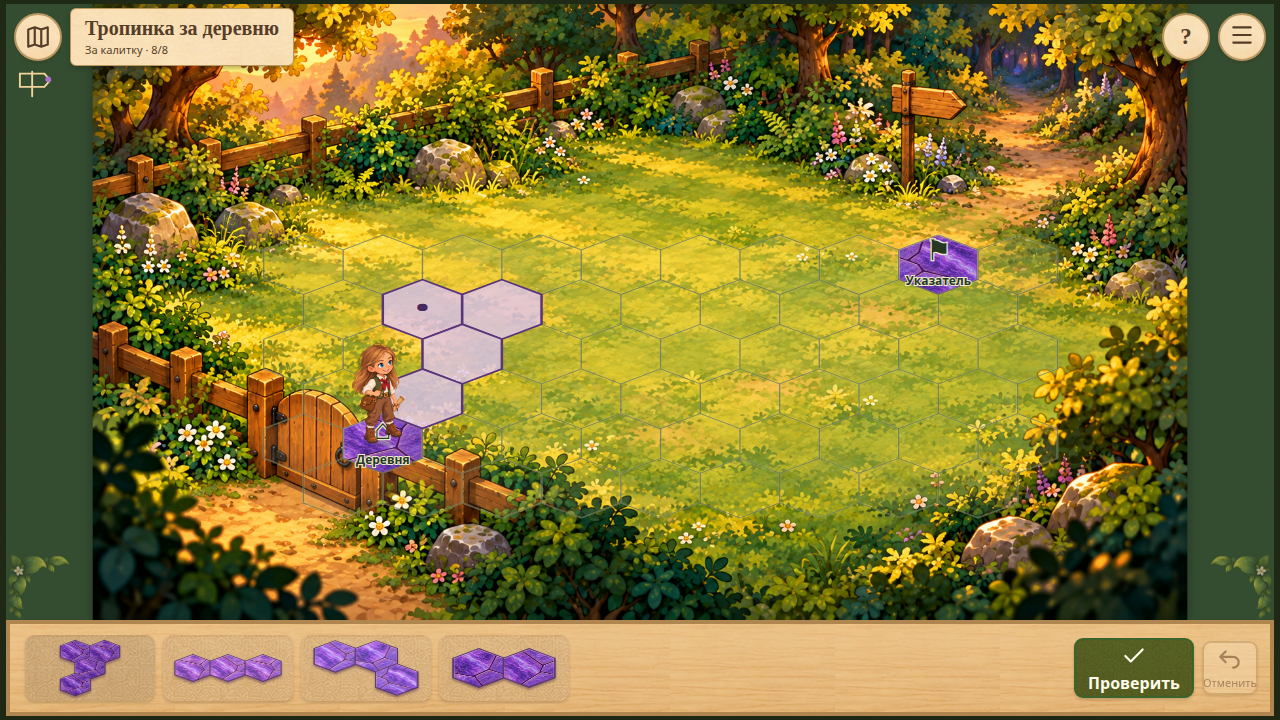
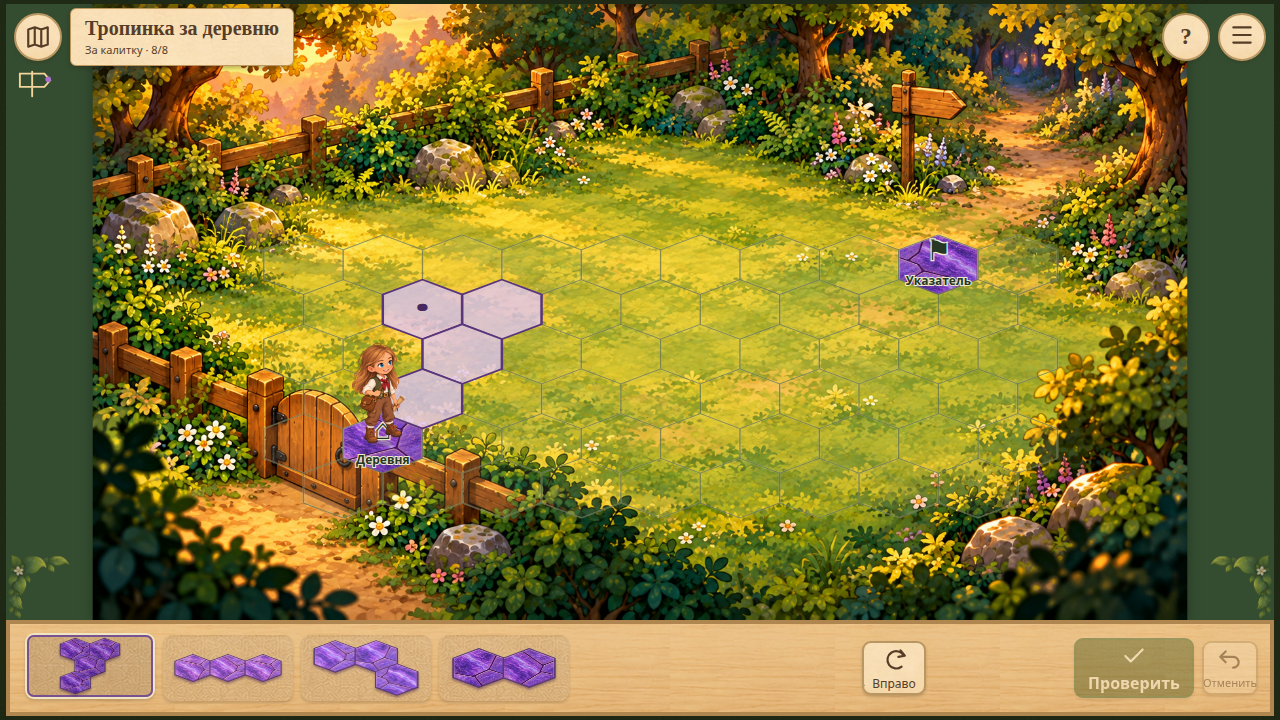
Fix tray pan, deselection and live drag highlighting

Changed region(s): [[0.0, 0.8556, 0.125, 0.9778], [0.8125, 0.8861, 0.9375, 0.9778], [0.6562, 0.8861, 0.75, 0.9778]]

diff --git a/src/main.ts b/src/main.ts
@@ -85,7 +85,7 @@ const v6Preview=true;
 const groundPoint=(x:number,y:number)=>{const p=project({x,y},projection);return {x:p.x+groundOffset.x,y:p.y+groundOffset.y};};
 let verticalRadius=13,horizontalRadius=17;
 let radius = 20, origin = {x:0,y:0};
-let drag: {pointer: number; startX: number; startY: number; moved: boolean; beforeAnchor: Hex | null; beforeTurns: number} | null = null;
+let drag: {pointer: number; startX: number; startY: number; moved: boolean; beforeAnchor: Hex | null; beforeTurns: number; toggleOnTap: boolean} | null = null;
 let suppressClick = false, deferDock = false, dockFrame = 0;
 // The dock changes under a released pointer. Consume its synthetic click so it
 // cannot activate a different button; the next real gesture starts afresh.
@@ -151,6 +151,9 @@ function drawPieceIcon(button:HTMLElement,p:Level['pieces'][number],orientation=
   if(p.kind==='bridge') el('text',{x:0,y:-6,'text-anchor':'middle','font-size':15,fill:'#493620'},icon,'≋');
   if(selected===p.id)el('circle',{cx:0,cy:0,r:level.id==='gate'?1.6:2.8,fill:'#fff6dc'},icon);
 }
+function updateTraySelection(){
+  for(const button of $('tray').querySelectorAll<HTMLElement>('[data-piece]'))button.setAttribute('aria-pressed',String(selected===button.dataset.piece));
+}
 function renderTray() {
   const tray=$('tray');
   for(const button of tray.querySelectorAll<HTMLElement>('[data-piece]')) if(!pieces.some(p=>p.id===button.dataset.piece))button.remove();
@@ -158,12 +161,13 @@ function renderTray() {
     let button=Array.from(tray.querySelectorAll<HTMLButtonElement>('[data-piece]')).find(b=>b.dataset.piece===p.id);
     if(!button){button=document.createElement('button');button.className='piece';button.dataset.piece=p.id;tray.append(button);}
     button.setAttribute('aria-label',`${p.name}${layout[p.id]?', на поле':', в наборе'}`);
-    button.setAttribute('aria-pressed',String(selected===p.id));button.classList.toggle('placed',!!layout[p.id]);
+    button.classList.toggle('placed',!!layout[p.id]);
     button.style.setProperty('--piece-width',p.shape.length===1?'88px':'130px');
     const orientation=selected===p.id?turns:layout[p.id]?.turns??0;
     const signature=`${level.id}:${orientation}:${selected===p.id}:${!!layout[p.id]}`;
     if(button.dataset.icon!==signature){button.replaceChildren();drawPieceIcon(button,p,orientation);if(layout[p.id]){const mark=document.createElement('em');mark.textContent='✓';button.append(mark);}button.dataset.icon=signature;}
   }
+  updateTraySelection();
   let note=tray.querySelector<HTMLElement>('.tray-note');
   if(!note){note=document.createElement('span');note.className='tray-note';note.textContent='Все плиты на поле';tray.append(note);}
   note.hidden=!pieces.every(p=>layout[p.id]);
@@ -289,7 +293,7 @@ function ownerAt(h: Hex) { return Object.entries(layout).find(([id,p])=>placedCe
 $('tray').addEventListener('click',e=>{
   if(suppressClick || phase!=='playing') return;
   const id=(e.target as Element).closest<HTMLElement>('[data-piece]')?.dataset.piece;
-  if(id) { select(id); render(); }
+  if(id) {if(selected===id){resetSelection();message('Выбор снят. Дорога сохранена.');}else select(id);render();}
 });
 svg.addEventListener('click',e=>{
   if(mode!=='select'||suppressClick||phase!=='playing') return;
@@ -311,10 +315,11 @@ svg.addEventListener('pointermove',e=>{
 });
 function startDrag(e: PointerEvent,id: string) {
   if(phase!=='playing'||mode!=='drag'||!e.isPrimary||e.button!==0||drag) return;
-  // touch-action:none handles scrolling; keep native tap/click synthesis intact.
+  // Tray permits horizontal pans; lifting a piece starts a drag on the board.
+  const toggleOnTap=selected===id&&!!(e.target as Element).closest('#tray');
   if(selected!==id) select(id);
-  drag={pointer:e.pointerId,startX:e.clientX,startY:e.clientY,moved:false,beforeAnchor:anchor?{...anchor}:null,beforeTurns:turns};
-  app.setPointerCapture(e.pointerId); renderBoard();
+  drag={pointer:e.pointerId,startX:e.clientX,startY:e.clientY,moved:false,beforeAnchor:anchor?{...anchor}:null,beforeTurns:turns,toggleOnTap};
+  app.setPointerCapture(e.pointerId);updateTraySelection();updateControls();renderBoard();
 }
 $('selected-drag').addEventListener('pointerdown',e=>{if(selected)startDrag(e,selected);});
 $('tray').addEventListener('pointerdown',e=>{
@@ -342,6 +347,7 @@ function finishDrag(e: PointerEvent,cancel: boolean) {
     message('Здесь не помещается. Плита вернулась на прежнее место.');
   }
   anchor=previous.beforeAnchor; turns=previous.beforeTurns;
+  if(!cancel&&!previous.moved&&previous.toggleOnTap){resetSelection();message('Выбор снят. Дорога сохранена.');}
   if(cancel) message('Перетаскивание отменено. Плита сохранена.');
   render();
 }
@@ -399,7 +405,7 @@ $('size').onchange=()=>{
 };
 $('mode').onchange=()=>{
   mode=($('mode') as HTMLSelectElement).value;if(savedSession)savedSession.mode=mode==='drag'?'drag':'select';resetSelection();
-  $('hint').textContent=mode==='select'?'Выбери плиту → клетку → «Поставить»':'Тяни за плиту · на телефоне цель выше пальца';
+  $('hint').textContent=mode==='select'?'Выбери плиту → клетку → «Поставить»':'Листай набор вбок · тяни плиту вверх на поле';
   message(mode==='select'?'Выбери плиту в наборе или на поле.':'Перетащи плиту на поле. Отпусти, чтобы поставить.');render();
 };
 if(document.fullscreenEnabled) {

diff --git a/src/style.css b/src/style.css
@@ -56,7 +56,6 @@ footer button{display:flex;align-items:center;flex-direction:column;justify-cont
 footer b{font-size:25px;font-weight:400;line-height:26px}
 #tray{display:flex;align-items:center;gap:8px;flex:1;min-width:0;height:100%;overflow-x:auto;overflow-y:hidden;touch-action:pan-x;scrollbar-width:thin;padding:3px}
 .piece{touch-action:pan-x;flex:0 0 var(--piece-width);height:100%;position:relative;border:2px solid transparent;background:#f2e4cd var(--linen);padding:5px;border-radius:9px}
-.drag-mode .piece{touch-action:none}
 .piece svg{width:100%;height:58px;overflow:visible;filter:drop-shadow(0 2px 1px #49234b70)}
 .piece[aria-pressed=true]{border-color:#fff4cf;outline:2px solid #805698;outline-offset:-4px;transform:translateY(-2px)}
 .piece.placed svg{opacity:.45}
@@ -152,7 +151,6 @@ to{opacity:0}
 @media(max-height:500px){footer{flex-basis:72px;padding:4px 8px;border-width:3px;gap:6px}
 #tray{gap:6px}
 .piece{flex-basis:calc(var(--piece-width)*.7);padding:3px}
-.drag-mode .piece{touch-action:none}
 .piece svg{height:40px}
 #selection-actions{gap:4px}
 #selection-actions button{width:48px;padding:3px;font-size:10px}

diff --git a/tests/ui_v7_review_fixes_browser.py b/tests/ui_v7_review_fixes_browser.py
@@ -1,0 +1,50 @@
+"""Regression scenarios from PR #28: pan, deselect and live drag selection."""
+import json,subprocess,sys
+from pathlib import Path
+from playwright.sync_api import sync_playwright,expect
+from browser_images import screenshot
+ROOT=Path(__file__).resolve().parents[1];OUT=ROOT/'docs/screenshots/ui-v7';OUT.mkdir(parents=True,exist_ok=True)
+URL=sys.argv[1] if len(sys.argv)>1 else 'http://127.0.0.1:5173/ruby-village/'
+KEY='ruby-village:chapter-1:v1'
+LEVELS=json.loads(subprocess.check_output(['node','--experimental-strip-types','--input-type=module','-e',"import {levels} from './src/levels.ts';console.log(JSON.stringify(levels))"],cwd=ROOT,text=True))
+def setup(page,id):
+ page.goto(URL);page.evaluate('(v)=>localStorage.setItem(v.k,JSON.stringify({version:2,completed:v.ids,introSeen:v.ids}))',{'k':KEY,'ids':[l['id'] for l in LEVELS]});page.reload();page.locator('#choose-level').click();page.locator(f'[data-level="{id}"]').click()
+def mode(page,value):
+ page.locator('#settings-open').click();page.locator('#pause-settings').click();page.locator('#mode').select_option(value);page.locator('#settings-close').click()
+def saved_layout(page):return page.evaluate('(k)=>JSON.parse(localStorage.getItem(k)).session.layout',KEY)
+def finger(cdp,kind,x=None,y=None):
+ cdp.send('Input.dispatchTouchEvent',{'type':kind,'touchPoints':[] if x is None else [{'x':x,'y':y}]})
+with sync_playwright() as p:
+ b=p.chromium.launch();page=b.new_page(viewport={'width':740,'height':360},has_touch=True,reduced_motion='reduce');errors=[];page.on('pageerror',lambda e:errors.append(str(e)));setup(page,'gate');cdp=page.context.new_cdp_session(page)
+ for value in ['select','drag']:
+  mode(page,value);tray=page.locator('#tray');tray.evaluate('(el)=>el.scrollLeft=0');box=tray.bounding_box();x=box['x']+box['width']-30;y=box['y']+box['height']/2
+  assert page.evaluate('p=>!!document.elementFromPoint(p.x,p.y).closest("[data-piece]")',{'x':x,'y':y})
+  before=saved_layout(page);finger(cdp,'touchStart',x,y)
+  for i in range(1,11):finger(cdp,'touchMove',x-i*18,y)
+  finger(cdp,'touchEnd');page.wait_for_function('document.getElementById("tray").scrollLeft>0');assert saved_layout(page)==before
+  assert page.evaluate('window.scrollX===0&&window.scrollY===0')
+  last=page.locator('[data-piece="gate-7"]').bounding_box();assert last['x']+last['width']<=box['x']+box['width']+1
+  print(f'{value}: swipe begins on a stone, reaches last piece, no layout/page changes: PASS',flush=True)
+ # Drag the last, previously clipped tile: retain the actual source SVG until release.
+ tile=page.locator('[data-piece="gate-7"]');original=tile.locator(':scope > svg').element_handle();box=tile.bounding_box();x=box['x']+box['width']/2;y=box['y']+box['height']/2
+ anchor=LEVELS[0]['solution']['gate-7']['anchor'];cell_selector='[data-cell="%s,%s"] > polygon'%(anchor['q'],anchor['r'])
+ cell=page.locator(cell_selector).bounding_box();tx=cell['x']+cell['width']/2;ty=cell['y']+cell['height']/2+max(42,cell['height']*.8)
+ finger(cdp,'touchStart',x,y);expect(tile).to_have_attribute('aria-pressed','true');assert original.evaluate('(el)=>el.isConnected');finger(cdp,'touchMove',x,y-25)
+ for i in range(1,11):finger(cdp,'touchMove',x+(tx-x)*i/10,y-25+(ty-y+25)*i/10)
+ expect(page.locator('#placement-preview')).to_have_attribute('data-preview','valid');assert original.evaluate('(el)=>el.isConnected');screenshot(page,OUT/'drag-selected-last-740x360.png');finger(cdp,'touchEnd');expect(page.locator('[data-owner="gate-7"]')).to_have_count(1)
+ # Move the placed instance and cancel; ownership and layout survive.
+ before=saved_layout(page);box=page.locator(cell_selector).bounding_box();x=box['x']+box['width']/2;y=box['y']+box['height']/2
+ finger(cdp,'touchStart',x,y);expect(tile).to_have_attribute('aria-pressed','true');finger(cdp,'touchMove',x+40,y-30);finger(cdp,'touchCancel');assert saved_layout(page)==before;expect(page.locator('[data-owner="gate-7"]')).to_have_count(1)
+ page.locator('#undo').tap();expect(page.locator('[data-owner="gate-7"]')).to_have_count(0);print('Last piece drag, live selection, stable SVG, placed-piece cancel and undo: PASS',flush=True)
+ page.close()
+ for w,h in [(1280,720),(844,390)]:
+  page=b.new_page(viewport={'width':w,'height':h},has_touch=True,reduced_motion='reduce');page.on('pageerror',lambda e:errors.append(str(e)));setup(page,'garden')
+  for id,v in LEVELS[1]['solution'].items():
+   page.locator(f'[data-piece="{id}"]').tap()
+   for _ in range(v['turns']):page.locator('#right').tap()
+   page.locator('[data-cell="%s,%s"] > polygon'%(v['anchor']['q'],v['anchor']['r'])).tap();page.locator('#place').tap()
+  before=saved_layout(page)
+  for value in ['select','drag']:
+   mode(page,value);spare=page.locator('[data-piece="garden-c"]');spare.tap();expect(spare).to_have_attribute('aria-pressed','true');expect(page.locator('#check')).to_be_disabled();spare.tap();expect(spare).to_have_attribute('aria-pressed','false');expect(page.locator('#check')).to_be_enabled();assert saved_layout(page)==before
+  screenshot(page,OUT/f'spare-deselected-{w}x{h}.png');page.locator('#check').tap();expect(page.locator('#story')).to_be_visible();print(f'{w}x{h}: tap selected spare to deselect in both modes, unchanged road wins: PASS',flush=True);page.close()
+ assert not errors,errors;b.close()

diff --git a/tests/art_v6_ui_browser.py b/tests/art_v6_ui_browser.py
@@ -56,6 +56,8 @@ with sync_playwright() as p:
   box=t.locator(source or f'[data-piece="{id}"]').bounding_box();x,y=box['x']+box['width']/2,box['y']+box['height']/2
   h=placement['anchor'];cell=t.locator('[data-cell="%s,%s"] > polygon'%(h['q'],h['r'])).bounding_box();tx,ty=cell['x']+cell['width']/2,cell['y']+cell['height']/2+max(42,cell['height']*.8)
   cdp.send('Input.dispatchTouchEvent',{'type':'touchStart','touchPoints':[{'x':x,'y':y}]})
+  # Lift vertically out of the stock before travelling across the field.
+  if source is None:cdp.send('Input.dispatchTouchEvent',{'type':'touchMove','touchPoints':[{'x':x,'y':y-25}]})
   for step in range(1,11):cdp.send('Input.dispatchTouchEvent',{'type':'touchMove','touchPoints':[{'x':x+(tx-x)*step/10,'y':y+(ty-y)*step/10}]})
   cdp.send('Input.dispatchTouchEvent',{'type':'touchCancel' if cancel else 'touchEnd','touchPoints':[]});t.wait_for_timeout(100)
  bridge=LEVELS[4]['solution']['bridge'];drag('bridge',bridge,True);assert t.locator('[data-owner="bridge"]').count()==0;drag('bridge',bridge);assert t.locator('[data-owner="bridge"]').count()==3

diff --git a/docs/ui-v7/report.md b/docs/ui-v7/report.md
@@ -53,3 +53,11 @@
 ## Самопроверка автора
 
 Ручной разбор по критериям code-review-core; независимый запуск ревью не выполнен. Проверены границы задачи, полный diff, взаимодействие сохранений/модальных окон/drag и фактические изображения. Найденные слабый контраст HUD, швы бумаги, низкий контраст карты и пересечение кнопки реплик с названием исправлены. Отдельное ревью PR ещё требуется; этот отчёт не является одобрением слияния.
+
+## Исправления ревью PR #28
+
+По [ревью 7ad09dd](https://github.com/samael500/ruby-village/pull/28#issuecomment-6057724459) исправлены три замечания. Горизонтальный свайп запаса работает и в drag; для переноса фигуру тянут вверх из лотка, затем ведут к нужной клетке. Повторное нажатие на выбранную плиту снимает выбор и возвращает доступность «Проверить», не меняя layout. При захвате фигуры её гнездо сразу получает aria-pressed и светлую рамку; обновляется только состояние кнопок, исходный SVG под пальцем сохраняется до окончания жеста.
+
+`tests/ui_v7_review_fixes_browser.py` проверяет реальные touch-события в обоих режимах: свайп от поверхности камня до последней плитки на 740×360; её перенос после вертикального выхода из запаса; выделение во время drag и сохранение исходного SVG; перенос уложенной фигуры с pointercancel и последующая отмена. На 1280×720 и 844×390: готовая дорога → выбор лишней плиты → повторное нажатие в select/drag → победа при неизменной раскладке. Все сценарии проходят. Сенсорный сценарий моста в существующем тесте также начинает перенос вертикальным выходом из лотка: горизонтальное движение внутри запаса служит прокрутке.
+
+Новые реальные снимки: [выделение последней плиты во время touch-drag](../screenshots/ui-v7/drag-selected-last-740x360.png), [снятый выбор, desktop](../screenshots/ui-v7/spare-deselected-1280x720.png), [снятый выбор, phone](../screenshots/ui-v7/spare-deselected-844x390.png). Штатные снимки drag обновлены. Повторное ревью PR остаётся отдельным шагом; данные сцен и задача #27 не затронуты.

diff --git a/README.md b/README.md
@@ -39,7 +39,7 @@ npm run preview
 
 ## Интерфейс v7
 
-Плавающий HUD, постоянный деревянный лоток, бумажные окна и крупный портрет Руты в её репликах. Выбрать другую плиту можно сразу из набора. Поворот — кнопкой вправо на 60°. Песочница, приглашение и сброс главы находятся в «Ещё…» на карте. [Реальные экраны, проверки и ограничения](docs/ui-v7/report.md).
+Плавающий HUD, постоянный деревянный лоток, бумажные окна и крупный портрет Руты в её репликах. Выбрать другую плиту можно сразу из набора; повторное нажатие снимает выбор без изменения дороги. В режиме перетаскивания листай набор вбок, а плиту тяни вверх на поле. Поворот — кнопкой вправо на 60°. Песочница, приглашение и сброс главы находятся в «Ещё…» на карте. [Реальные экраны, проверки и ограничения](docs/ui-v7/report.md).
 
 ## Сохранение
 
@@ -58,6 +58,7 @@ npm run build
 python tests/art_browser.py http://127.0.0.1:5173/ruby-village/
 python tests/chapter_browser.py http://127.0.0.1:5173/ruby-village/
 python tests/ui_v7_browser.py http://127.0.0.1:5173/ruby-village/
+python tests/ui_v7_review_fixes_browser.py http://127.0.0.1:5173/ruby-village/
 # Воспроизведение поиска допустимых эталонов:
 node --experimental-strip-types scripts/solve-art-v6.ts
 ```
